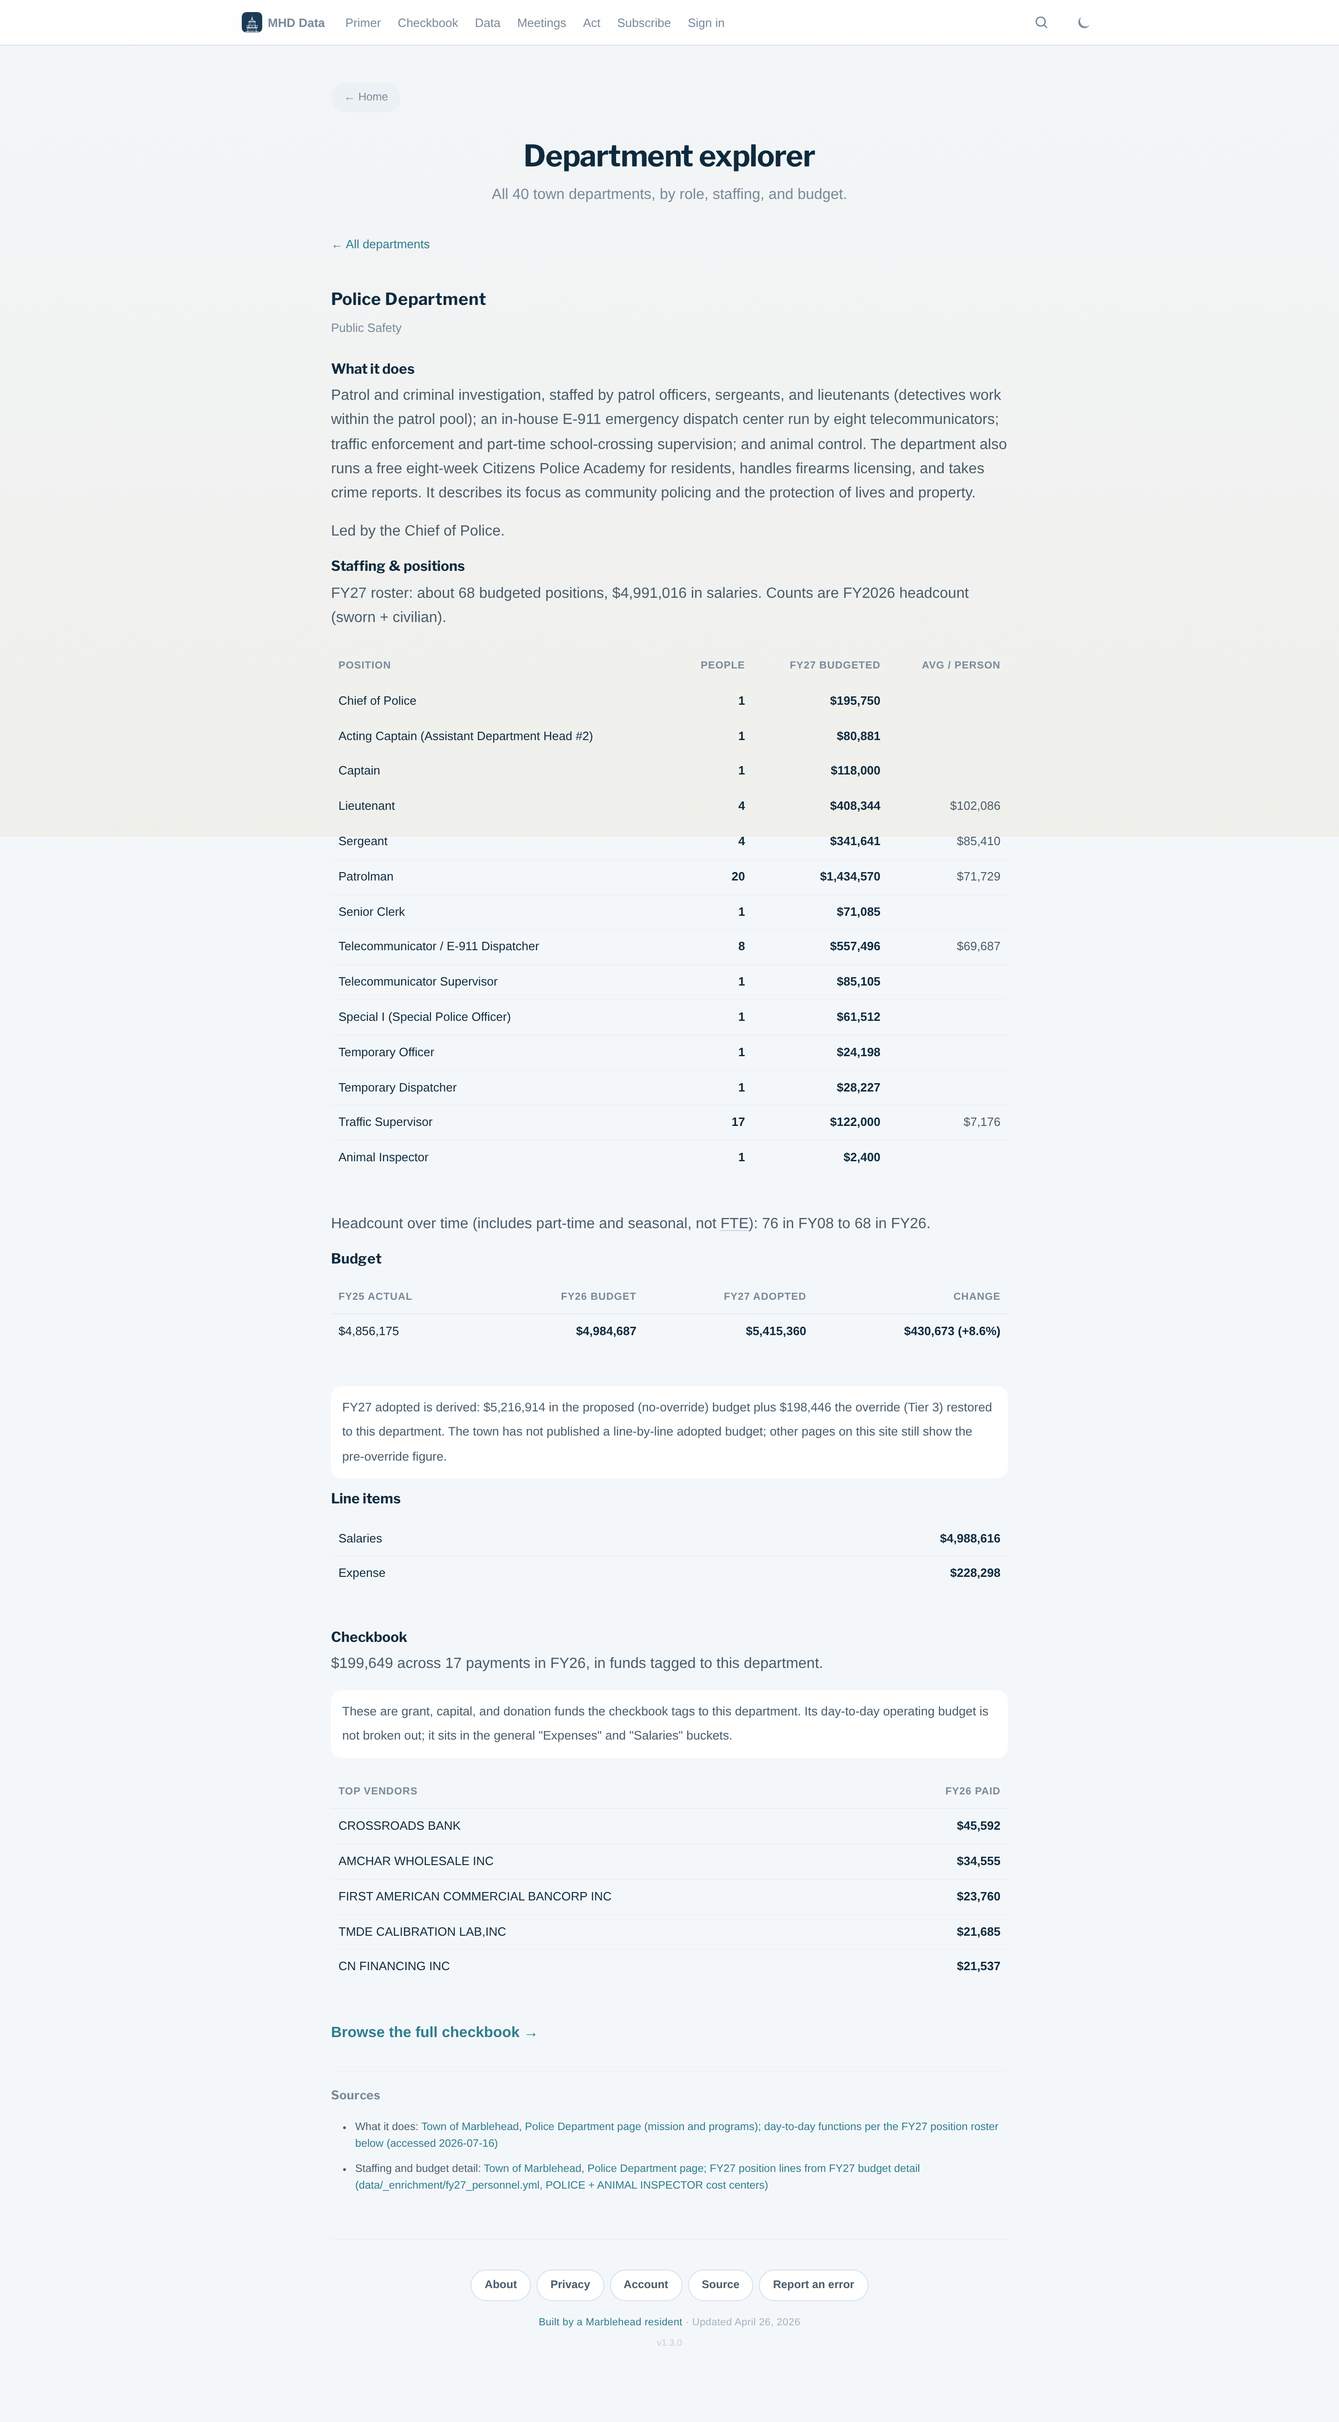
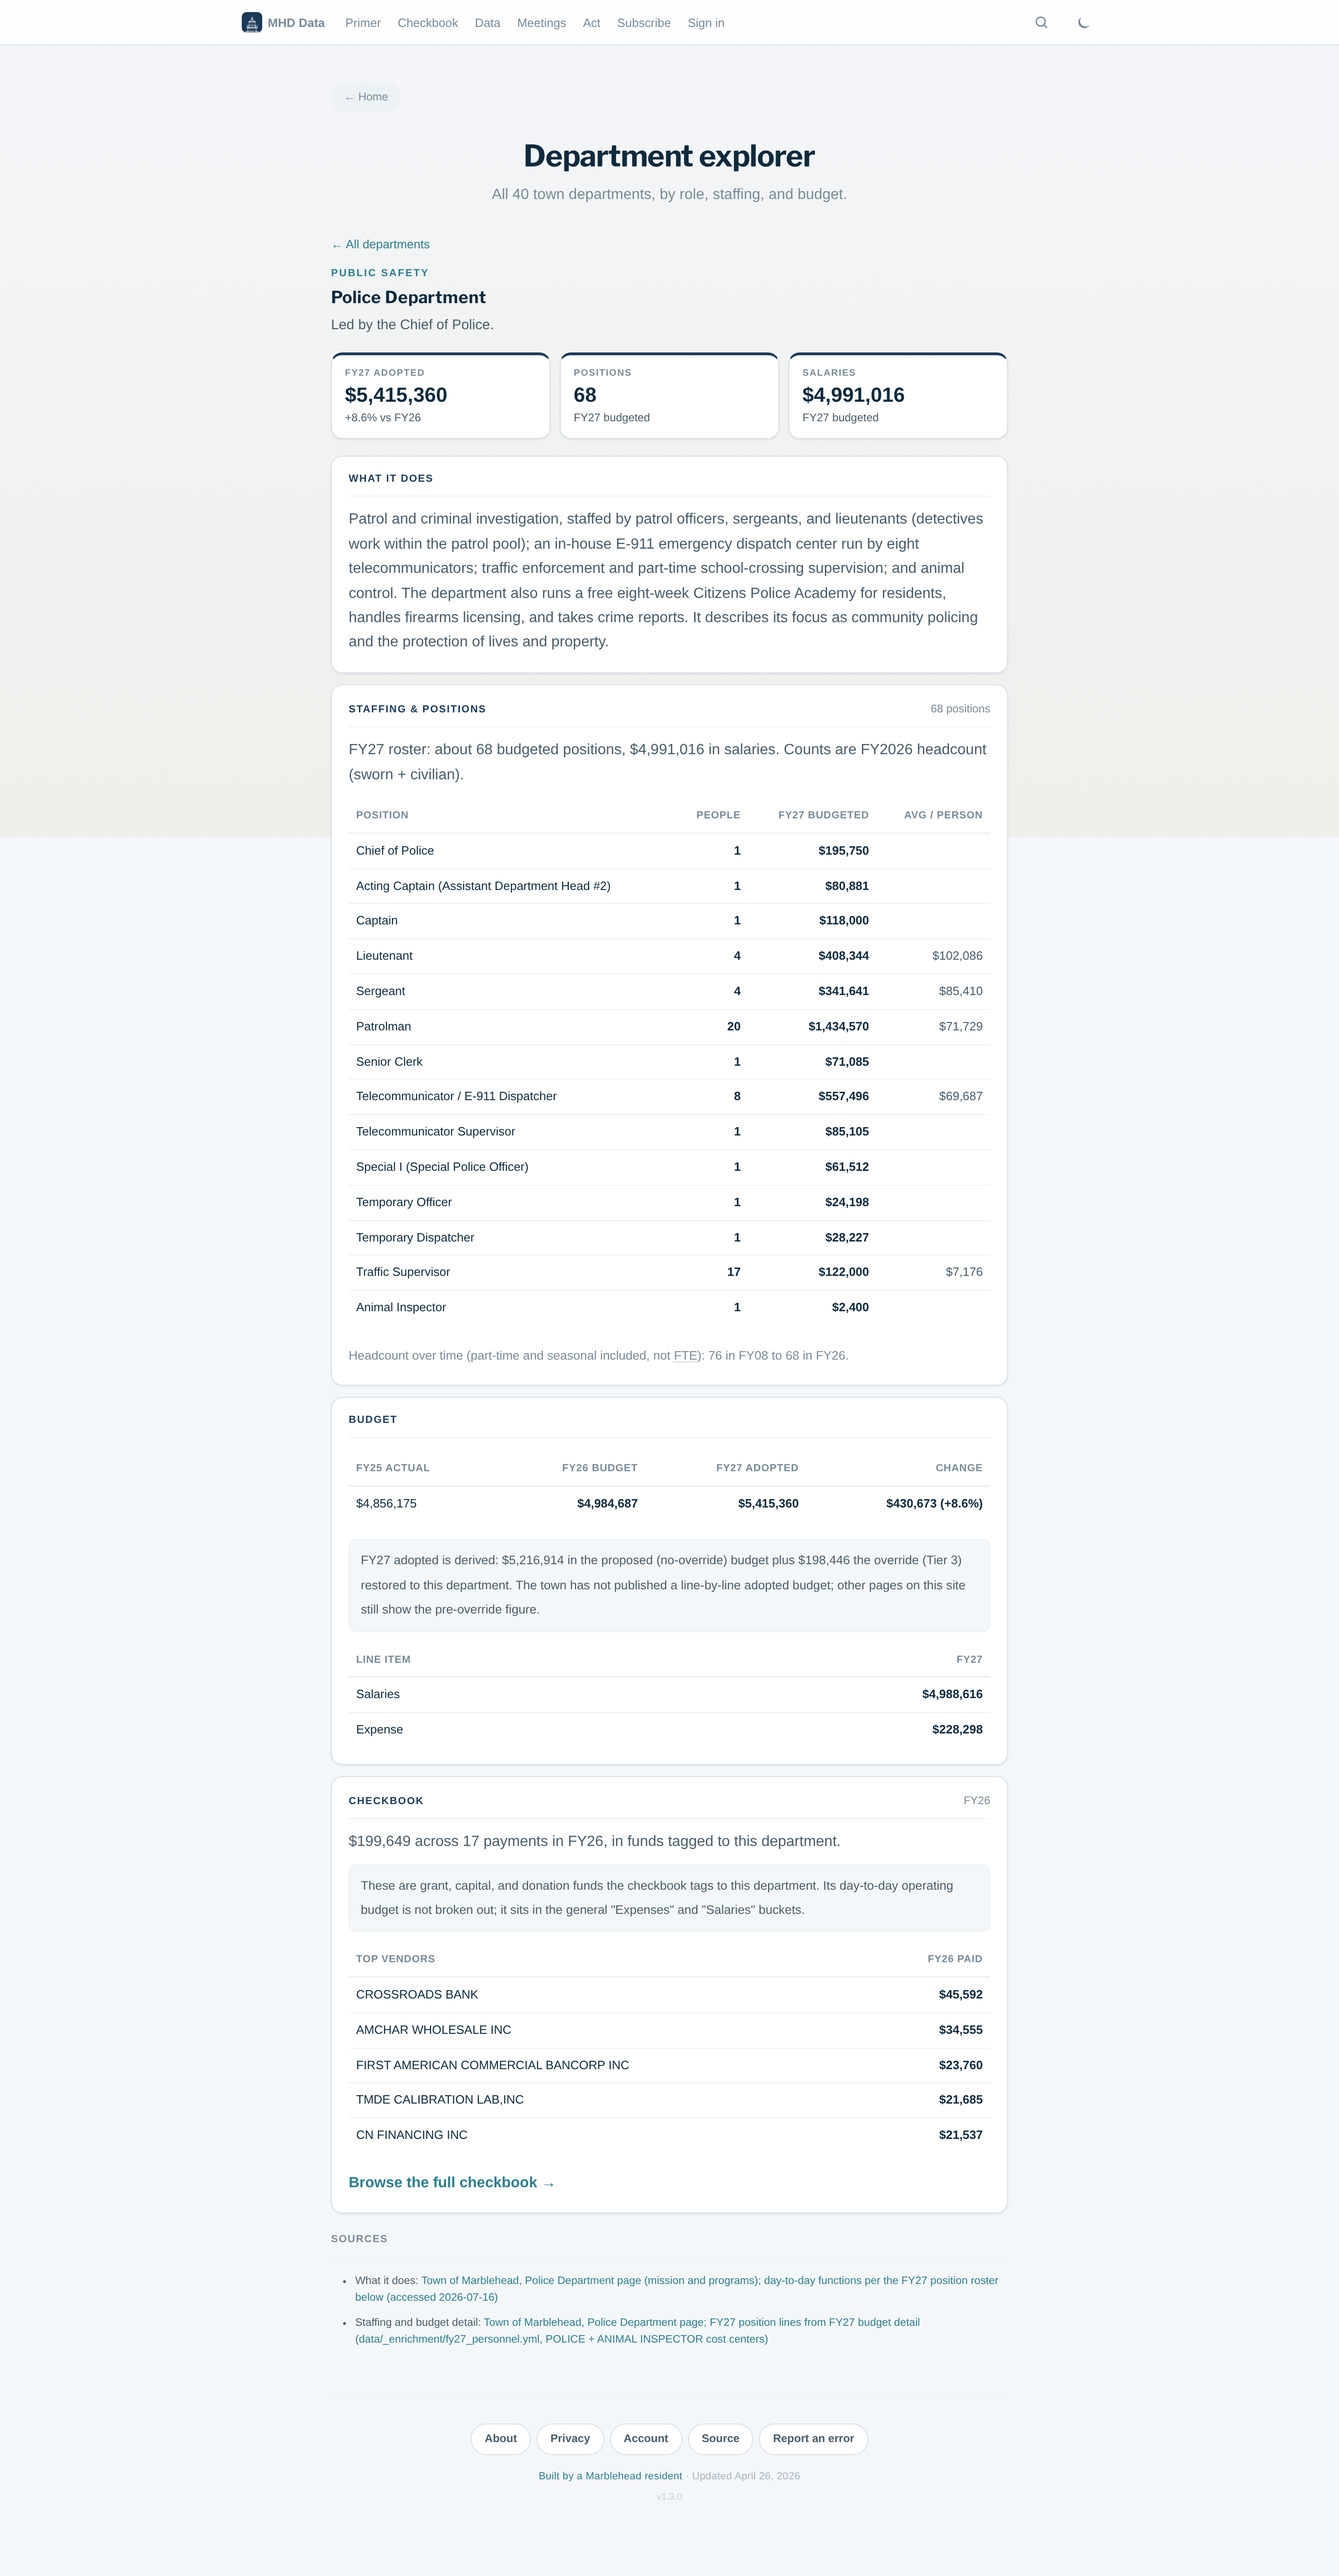
design: card-based profile layout with stat tiles and section headers
Profiles were a flat wall of h3s and near-identical tables. Restructure into: an
eyebrow+name header, a stat-tile row (FY27 adopted, positions, salaries), and each
section (What it does / Staffing / Budget / Checkbook / Sources) as its own
surface card with an eyebrow header. Uses the site's existing tile/card tokens
(--surface, --shadow-sm, navy/teal). No data or copy changes.

diff --git a/departments.html b/departments.html
@@ -285,135 +285,104 @@ og_url: https://marbleheaddata.org/departments.html
     var d = DATA.departments[key];
     var p = [];
     p.push('<button class="dx-back" id="dx-back">&larr; All departments</button>');
-    p.push('<h2>' + deptLabel(d) + '</h2>');
-    p.push('<p class="subtitle">' + esc(d.function_label) + '</p>');
+    p.push('<div class="dx-profile-hd"><div class="dx-eyebrow">' + esc(d.function_label) + '</div>' +
+      '<h2>' + deptLabel(d) + '</h2>' +
+      (d.role ? '<p class="dx-ledby">Led by the ' + esc(d.role) + '.</p>' : '') + '</div>');
 
-    // 1. What it does (cited service description), or a plain fallback.
-    // Citations are collected and rendered together at the bottom (see below).
-    if (d.services && d.services.summary) {
-      p.push('<h3>What it does</h3>');
-      p.push('<p>' + esc(d.services.summary) + '</p>');
-    } else {
-      p.push('<p><em>A plain-language description of what this department does is forthcoming.</em></p>');
-    }
+    p.push(statTiles(d));
 
-    // 2. Deep-dive callout: departments with a dedicated page (e.g. Abbot
-    // Library -> /library.html) link out instead of duplicating it.
+    // What it does (cited), plus a deep-dive link-out where a dedicated page exists.
+    var whatInner = (d.services && d.services.summary)
+      ? '<p>' + esc(d.services.summary) + '</p>'
+      : '<p><em>A plain-language description of what this department does is forthcoming.</em></p>';
     if (d.deep_dive && d.deep_dive.url) {
-      p.push('<p class="dx-deepdive"><a href="' + esc(d.deep_dive.url) + '">' +
-        esc(d.deep_dive.label || 'Full page') + ' &rarr;</a></p>');
+      whatInner += '<p class="dx-deepdive"><a href="' + esc(d.deep_dive.url) + '">' +
+        esc(d.deep_dive.label || 'Full page') + ' &rarr;</a></p>';
     }
+    p.push(block('What it does', null, whatInner));
 
-    // A department with its own full page shows only the summary + budget here;
-    // staffing/funding detail lives on that page.
+    // Departments with their own full page defer detail there: show budget, stop.
     if (d.deep_dive && d.deep_dive.url) {
-      p.push(budgetTable(d));
+      p.push(block('Budget', null, budgetInner(d)));
+      p.push(sourcesBlock(d));
       app.innerHTML = p.join('');
       document.getElementById('dx-back').addEventListener('click', function () { location.hash = ''; });
       return;
     }
 
-    // 3. Who leads it. (role_note is intentionally not shown — several org_chart
-    // notes are framed around the pre-override "no-override" budget, which is
-    // counterfactual now that the override passed.)
-    if (d.role) {
-      p.push('<p>Led by the ' + esc(d.role) + '.</p>');
-    }
-
-    // 4. Who does it: the FY27 position roster.
+    // Staffing & positions: the FY27 roster + headcount trend.
     if (d.staffing && d.staffing.positions && d.staffing.positions.length) {
-      var s = d.staffing;
-      p.push('<h3>Staffing &amp; positions</h3>');
+      var s = d.staffing, inner = '';
       var line = 'FY27 roster';
       if (s.fte != null) line += ': about ' + s.fte + ' budgeted positions';
       if (s.salary_total != null) line += ', ' + fmtUSD(s.salary_total) + ' in salaries';
       line += '.';
       if (s.fte_basis) line += ' Counts are ' + esc(s.fte_basis) + '.';
-      p.push('<p>' + line + '</p>');
+      inner += '<p>' + line + '</p>';
       var ps = s.position_summary || {}, chg = [];
       if (ps.new) chg.push(ps.new + ' new');
       if (ps.eliminated) chg.push(ps.eliminated + ' eliminated');
       if (ps.reduced) chg.push(ps.reduced + ' reduced');
-      if (chg.length) p.push('<p class="dx-caveat"><small>FY27 position changes: ' + chg.join(', ') + '.</small></p>');
-      p.push('<div class="table-wrap"><table class="dx-roster"><thead><tr>' +
-        '<th>Position</th><th>People</th><th>FY27 budgeted</th><th>Avg / person</th>' +
-        '</tr></thead><tbody>');
+      if (chg.length) inner += '<p class="dx-caveat"><small>FY27 position changes: ' + chg.join(', ') + '.</small></p>';
+      inner += '<div class="table-wrap"><table class="dx-roster"><thead><tr>' +
+        '<th>Position</th><th>People</th><th>FY27 budgeted</th><th>Avg / person</th></tr></thead><tbody>';
       s.positions.forEach(function (pos) {
         var avg = (pos.count > 1 && pos.fy27 != null) ? fmtUSD(pos.fy27 / pos.count) : '';
-        p.push('<tr><td>' + esc(pos.title) + '</td>' +
+        inner += '<tr><td>' + esc(pos.title) + '</td>' +
           '<td class="dx-amt">' + (pos.count != null ? pos.count : '') + '</td>' +
           '<td class="dx-amt">' + fmtUSD(pos.fy27) + '</td>' +
-          '<td class="dx-amt dx-avg">' + avg + '</td></tr>');
+          '<td class="dx-amt dx-avg">' + avg + '</td></tr>';
       });
-      p.push('</tbody></table></div>');
-    }
-
-    // 5. Headcount trend over time.
-    if (d.headcount && d.headcount.length) {
-      var first = d.headcount[0], last = d.headcount[d.headcount.length - 1];
-      p.push('<p>Headcount over time (includes part-time and seasonal, not <abbr class="g" title="Full-Time Equivalent">FTE</abbr>): ' +
-        first.headcount + ' in FY' + String(first.fy).slice(2) +
-        ' to ' + last.headcount + ' in FY' + String(last.fy).slice(2) + '.</p>');
-    }
-
-    // 6. Budget + line items.
-    p.push(budgetTable(d));
-    if (d.line_items && d.line_items.length) {
-      p.push('<h3>Line items</h3>');
-      if (d.line_items_reconcile === false) {
-        p.push('<p class="dx-caveat"><small>These are the level-funded (pre-reduction) request lines from the school committee packet. They sum to more than the department total above, which reflects later negotiated reductions not allocated back to individual lines.</small></p>');
+      inner += '</tbody></table></div>';
+      if (d.headcount && d.headcount.length) {
+        var hf = d.headcount[0], hl = d.headcount[d.headcount.length - 1];
+        inner += '<p class="dx-src"><small>Headcount over time (part-time and seasonal included, not <abbr class="g" title="Full-Time Equivalent">FTE</abbr>): ' +
+          hf.headcount + ' in FY' + String(hf.fy).slice(2) + ' to ' + hl.headcount + ' in FY' + String(hl.fy).slice(2) + '.</small></p>';
       }
-      p.push('<div class="table-wrap"><table class="dx-lines"><tbody>');
-      d.line_items.forEach(function (li) {
-        p.push('<tr><td>' + esc(li.description) + '</td>' +
-          '<td class="dx-amt">' + fmtUSD(li.fy27_proposed) + '</td></tr>');
-      });
-      p.push('</tbody></table></div>');
+      p.push(block('Staffing &amp; positions', s.fte != null ? s.fte + ' positions' : null, inner));
+    } else if (d.headcount && d.headcount.length) {
+      var f0 = d.headcount[0], l0 = d.headcount[d.headcount.length - 1];
+      p.push(block('Staffing', null, '<p>Headcount over time (part-time and seasonal included, not <abbr class="g" title="Full-Time Equivalent">FTE</abbr>): ' +
+        f0.headcount + ' in FY' + String(f0.fy).slice(2) + ' to ' + l0.headcount + ' in FY' + String(l0.fy).slice(2) + '.</p>'));
     }
 
-    // 7. Checkbook: attributable payments where the fund names the department,
-    // else a plain note that the town does not break operating spending out.
-    p.push('<h3>Checkbook</h3>');
-    var cb = d.checkbook;
+    // Budget + line items.
+    var budInner = budgetInner(d);
+    if (d.line_items && d.line_items.length) {
+      if (d.line_items_reconcile === false) {
+        budInner += '<p class="dx-caveat"><small>These are the level-funded (pre-reduction) request lines from the school committee packet. They sum to more than the department total above, which reflects later negotiated reductions not allocated back to individual lines.</small></p>';
+      }
+      budInner += '<div class="table-wrap"><table class="dx-lines"><thead><tr><th>Line item</th><th>FY27</th></tr></thead><tbody>';
+      d.line_items.forEach(function (li) {
+        budInner += '<tr><td>' + esc(li.description) + '</td><td class="dx-amt">' + fmtUSD(li.fy27_proposed) + '</td></tr>';
+      });
+      budInner += '</tbody></table></div>';
+    }
+    p.push(block('Budget', null, budInner));
+
+    // Checkbook: attributable payments where a fund names the department.
+    var cb = d.checkbook, cbInner;
     if (cb) {
       var fy = 'FY' + cb.fiscal_year.slice(2);
-      p.push('<p>' + fmtUSD(cb.total) + ' across ' + cb.count +
-        ' payments in ' + fy + ', in funds tagged to this department.</p>');
-      p.push('<p class="dx-caveat"><small>' + (cb.kind === 'enterprise'
+      cbInner = '<p>' + fmtUSD(cb.total) + ' across ' + cb.count + ' payments in ' + fy + ', in funds tagged to this department.</p>';
+      cbInner += '<p class="dx-caveat"><small>' + (cb.kind === 'enterprise'
         ? 'These are the funds the checkbook tags to this department, mostly regional assessments and its own capital projects. Some routine operating costs may still sit in the general "Expenses" and "Salaries" buckets.'
-        : 'These are grant, capital, and donation funds the checkbook tags to this department. Its day-to-day operating budget is not broken out; it sits in the general "Expenses" and "Salaries" buckets.') +
-        '</small></p>');
+        : 'These are grant, capital, and donation funds the checkbook tags to this department. Its day-to-day operating budget is not broken out; it sits in the general "Expenses" and "Salaries" buckets.') + '</small></p>';
       if (cb.top_vendors && cb.top_vendors.length) {
-        p.push('<div class="table-wrap"><table class="dx-lines"><thead><tr>' +
-          '<th>Top vendors</th><th>' + fy + ' paid</th></tr></thead><tbody>');
+        cbInner += '<div class="table-wrap"><table class="dx-lines"><thead><tr><th>Top vendors</th><th>' + fy + ' paid</th></tr></thead><tbody>';
         cb.top_vendors.forEach(function (tv) {
-          p.push('<tr><td>' + esc(tv.vendor) + '</td>' +
-            '<td class="dx-amt">' + fmtUSD(tv.amount) + '</td></tr>');
+          cbInner += '<tr><td>' + esc(tv.vendor) + '</td><td class="dx-amt">' + fmtUSD(tv.amount) + '</td></tr>';
         });
-        p.push('</tbody></table></div>');
+        cbInner += '</tbody></table></div>';
       }
-      p.push('<p class="dx-deepdive"><a href="/checkbook/">Browse the full checkbook &rarr;</a></p>');
+      cbInner += '<p class="dx-deepdive"><a href="/checkbook/">Browse the full checkbook &rarr;</a></p>';
     } else {
-      p.push('<p>The town’s published checkbook does not break payments out to this ' +
-        'department; its operating spending sits in the general "Expenses" and "Salaries" ' +
-        'buckets. <a href="/checkbook/">Browse the full checkbook &rarr;</a></p>');
+      cbInner = '<p>The town’s published checkbook does not break payments out to this department; its operating spending sits in the general "Expenses" and "Salaries" buckets.</p>' +
+        '<p class="dx-deepdive"><a href="/checkbook/">Browse the full checkbook &rarr;</a></p>';
     }
+    p.push(block('Checkbook', cb ? cb.fiscal_year : null, cbInner));
 
-    // All citations for the profile, collected in one place at the bottom.
-    function srcLink(url, label) {
-      return url ? '<a href="' + esc(url) + '">' + esc(label) + '</a>' : esc(label);
-    }
-    var sources = [];
-    if (d.services && d.services.source_label) {
-      sources.push('<li>What it does: ' + srcLink(d.services.source_url, d.services.source_label) + '</li>');
-    }
-    if (d.role_source) {
-      sources.push('<li>Staffing and budget detail: ' + srcLink(d.role_source_url, d.role_source) + '</li>');
-    }
-    if (sources.length) {
-      p.push('<div class="dx-sources"><h3>Sources</h3><ul class="tldr"><small>' +
-        sources.join('') + '</small></ul></div>');
-    }
+    p.push(sourcesBlock(d));
 
     app.innerHTML = p.join('');
     document.getElementById('dx-back').addEventListener('click', function () {
